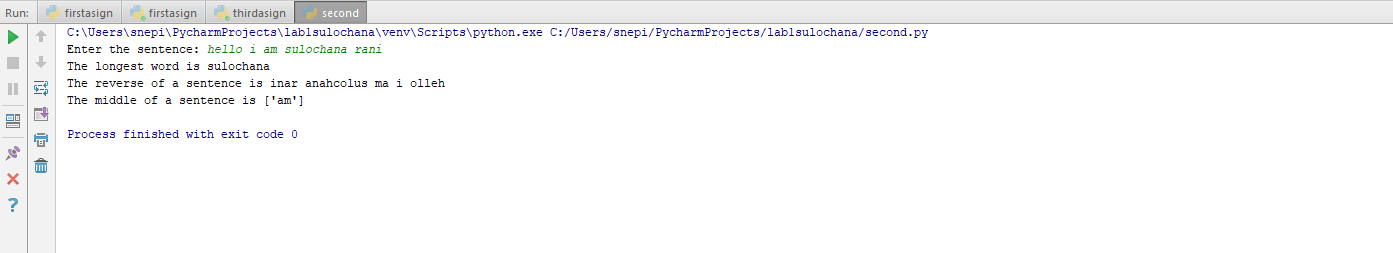
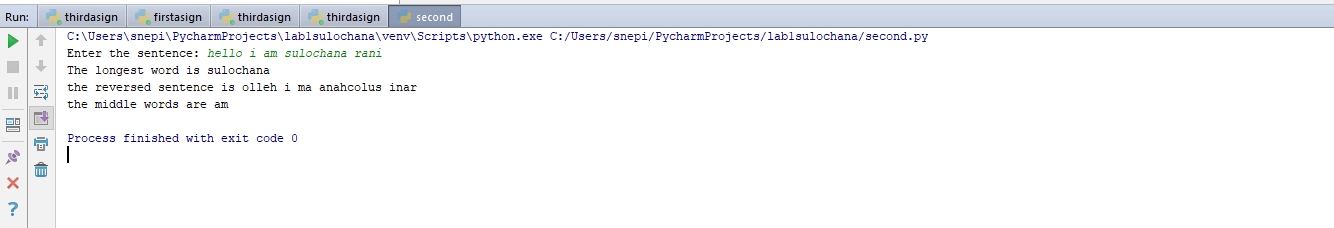
yes

Changed region(s): [[0.0, 0.0, 1.0, 0.8289], [0.0, 0.8904, 0.0307, 0.9518]]

diff --git a/lab1/source/lab1sulochana/second.py b/lab1/source/lab1sulochana/second.py
@@ -8,8 +8,8 @@ for word in list.split():
 
 print("The longest word is %s" % longest_word)
 
-reverse = list[::-1]
-print ("The reverse of a sentence is %s" %reverse)
+reversed_string = ' '.join(w[::-1] for w in list.split())
+print ("the reversed sentence is %s" %reversed_string)
 
 words = list.split() #Forget ()
 len_sentence = len(words)
@@ -19,4 +19,4 @@ if len_sentence%2==0:
     middle.append(words[len_sentence//2])
 else:
     middle.append(words[len_sentence//2])
-print("The middle of a sentence is %s"%middle)
+print("the middle words are %s" % ' '.join(middle))
